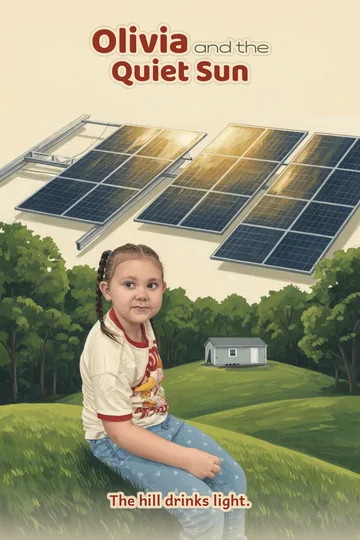
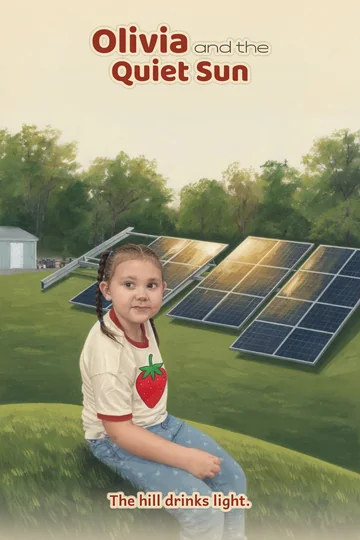
Replace garbled shirt lettering on the remaining Olivia home covers.
Image models invented nonsense on the tees. All six covers now use a plain strawberry graphic with no shirt text, and titles stay lettered in code.

diff --git a/scripts/pack-olivia-home-books.py b/scripts/pack-olivia-home-books.py
@@ -30,8 +30,7 @@ BOOKS = [
         "name": "Olivia",
         "rest": "Two Sisters",
         "subtitle": "Zero is calm. Belle is bounce.",
-        "cover": "18.jpg",
-        "crop_bottom": 0.09,
+        "cover": "30.jpg",
         "backs": {"couch": "5.jpg", "patio": "15.jpg"},
         "props": ["olivia-stand", "zero", "belle", "rock"],
         "wall": "5.jpg",
@@ -42,7 +41,7 @@ BOOKS = [
         "name": "Olivia",
         "rest": "Lost Rock",
         "subtitle": "Sisters help find treasure.",
-        "cover": "16.jpg",
+        "cover": "27.jpg",
         "backs": {"patio": "15.jpg", "garden": "13.jpg"},
         "props": ["olivia-stand", "zero", "belle", "rock"],
         "wall": "15.jpg",
@@ -64,7 +63,7 @@ BOOKS = [
         "name": "Olivia",
         "rest": "Garden Beds",
         "subtitle": "Dirt under the fingernails.",
-        "cover": "10.jpg",
+        "cover": "29.jpg",
         "backs": {"garden": "13.jpg", "house": "14.jpg"},
         "props": ["olivia-stand", "can"],
         "wall": "13.jpg",
@@ -75,7 +74,7 @@ BOOKS = [
         "name": "Olivia",
         "rest": "Quiet Sun",
         "subtitle": "The hill drinks light.",
-        "cover": "11.jpg",
+        "cover": "25.jpg",
         "backs": {"solar": "20.jpg", "house": "14.jpg"},
         "props": ["olivia-stand"],
         "wall": "20.jpg",
